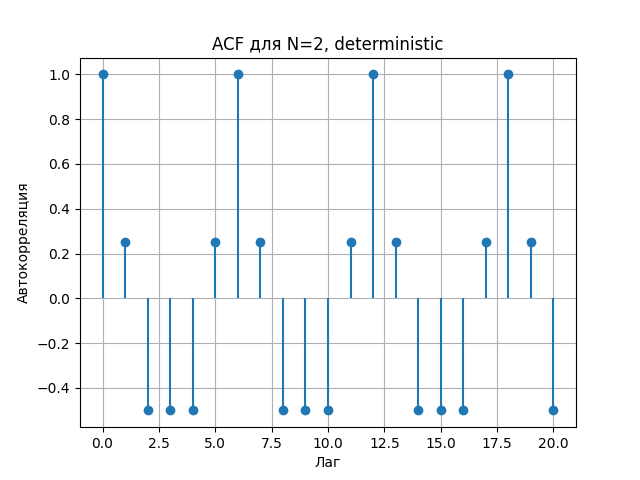
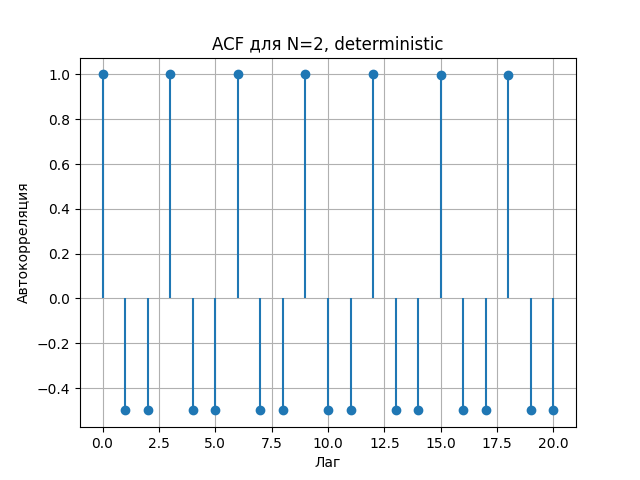
Правки

diff --git a/Aspirant1Sem/Ternary_random_number_generator/simulator.py b/Aspirant1Sem/Ternary_random_number_generator/simulator.py
@@ -11,8 +11,8 @@ class TRNGSimulator:
     Симулятор троичного генератора на основе джиттера.
     Поддерживает разные распределения задержек переключения вентилей.
     """
-    def __init__(self, N: int, gate_func: Callable[[int, int], int] = F1,
-                 delay_distribution: str = 'exponential', delay_params: dict = None):
+    def __init__(self, N: int, gate_func=F1, delay_distribution='exponential',
+             delay_params=None, clock_D: float = 8.0, record_output: int = 0):
         """
         :param N: число вентилей
         :param gate_func: логическая функция (F1 или F2)
@@ -23,6 +23,8 @@ class TRNGSimulator:
         self.gate_func = gate_func
         self.delay_distribution = delay_distribution
         self.delay_params = delay_params if delay_params else {}
+        self.clock_D = clock_D
+        self.record_output = record_output
 
         # Состояния и их индексы
         all_states = generate_all_states(N)
@@ -37,9 +39,14 @@ class TRNGSimulator:
         self._reset_timers()
 
     def _reset_timers(self):
-        """Инициализирует таймеры случайными значениями в соответствии с распределением."""
         for i in range(self.N):
-            self.timers[i] = self._generate_delay()
+            if self.delay_distribution == 'deterministic':
+                # Добавляем малый случайный сдвиг (0..epsilon) для начальной фазы
+                epsilon = self.delay_params.get('epsilon', 0.01)
+                base = self.delay_params.get('value', 1.0)
+                self.timers[i] = base + np.random.uniform(0, epsilon)
+            else:
+                self.timers[i] = self._generate_delay()
 
     def _generate_delay(self) -> float:
         """Генерирует случайную задержку согласно заданному распределению."""
@@ -99,16 +106,41 @@ class TRNGSimulator:
 
         return self.current_state_idx, new_state, dt
 
-    def run(self, num_steps: int, record_output: Optional[int] = None) -> List[int]:
-        """
-        Запускает моделирование на num_steps шагов.
-        Если record_output задан (номер вентиля), записывает последовательность его выходов.
-        Возвращает список троичных символов (-1,0,1) для указанного вентиля.
-        """
-        if record_output is None:
-            record_output = 0  # по умолчанию записываем выход первого вентиля
+    def run(self, num_steps: int) -> List[int]:
+        """Запускает моделирование на num_steps шагов, но выдаёт отсчёты через clock_D."""
         sequence = []
-        for _ in range(num_steps):
-            idx, state, _ = self.step()
-            sequence.append(state[record_output])
+        current_time = 0.0
+        last_sample_time = 0.0
+        # Инициализируем таймеры (уже есть в __init__, но нужно сохранить)
+        # Основной цикл по событиям
+        events = 0
+        while len(sequence) < num_steps:
+            # Находим вентиль с минимальным таймером
+            k = np.argmin(self.timers)
+            dt = self.timers[k]
+            # Продвигаем время
+            current_time += dt
+            self.timers -= dt
+            # Переключение вентиля
+            state = self.idx_to_state[self.current_state_idx]
+            a = state[k]
+            b = state[(k-1) % self.N]
+            new_out = self.gate_func(a, b)
+            if new_out != state[k]:
+                new_state_list = list(state)
+                new_state_list[k] = new_out
+                new_state = tuple(new_state_list)
+                # Проверка на однородные состояния
+                if new_state not in self.state_to_idx:
+                    # Это не должно происходить, но на случай сбросим?
+                    continue
+                self.current_state_idx = self.state_to_idx[new_state]
+            # Генерируем новую задержку для этого вентиля
+            self.timers[k] = self._generate_delay()
+            # Сэмплирование по тактовому сигналу
+            if current_time - last_sample_time >= self.clock_D:
+                # Берём выход указанного вентиля
+                out_val = self.idx_to_state[self.current_state_idx][self.record_output]
+                sequence.append(out_val)
+                last_sample_time = current_time
         return sequence

diff --git a/Aspirant1Sem/Ternary_random_number_generator/main.py b/Aspirant1Sem/Ternary_random_number_generator/main.py
@@ -5,7 +5,7 @@ import argparse
 import numpy as np
 import matplotlib.pyplot as plt
 from ternary_gate import F1, F2
-from transition_matrix import build_transition_matrix, stationary_distribution
+from transition_matrix import build_transition_matrix, stationary_distribution, compute_convergence_rate
 from simulator import TRNGSimulator
 from randomness_tests import chi_square_uniform, chi_square_independence, autocorrelation, runs_test
 
@@ -15,6 +15,8 @@ def run_theoretical_analysis(N, gate_func=F1):
     Q, states, _ = build_transition_matrix(N, gate_func)
     p = stationary_distribution(Q, N)
     print(f"Размерность пространства состояний: {len(states)}")
+    V = compute_convergence_rate(Q, N)
+    print(f"Параметр скорости сходимости V = {V:.4f} (чем меньше, тем быстрее сходимость)")
     print("Стационарное распределение (первые 10):")
     for i in range(min(10, len(p))):
         print(f"  {states[i]}: {p[i]:.4f}")
@@ -28,11 +30,14 @@ def run_theoretical_analysis(N, gate_func=F1):
         print(f"  {val}: {probs[val]:.4f}")
     return p, states
 
-def run_simulation(N, num_samples, delay_distr, gate_func=F1, record_output=0):
-    """Запускает дискретно-событийное моделирование."""
+def run_simulation(N, num_samples, delay_distr, gate_func, clock_D, output_gate, delay_params=None):
     print(f"\n=== Моделирование: N={N}, распределение={delay_distr}, выборок={num_samples} ===")
-    sim = TRNGSimulator(N, gate_func, delay_distribution=delay_distr)
-    seq = sim.run(num_samples, record_output=record_output)
+    if delay_params is None:
+        delay_params = {}
+    sim = TRNGSimulator(N=N, gate_func=gate_func, delay_distribution=delay_distr,
+                        delay_params=delay_params, clock_D=clock_D,
+                        record_output=output_gate)
+    seq = sim.run(num_samples)
     return seq
 
 def run_tests(seq, name="Последовательность"):
@@ -70,16 +75,31 @@ def main():
                         choices=["exponential","uniform","gamma","deterministic"],
                         help="Распределение задержек")
     parser.add_argument("--gate", type=str, default="F1", choices=["F1","F2"])
+    parser.add_argument("--clock_D", type=float, default=8.0, help="Тактовый интервал D")
+    parser.add_argument("--output_gate", type=int, default=0, help="Номер выходного вентиля (0..N-1)")
     parser.add_argument("--theoretical", action="store_true", help="Выполнить теоретический анализ")
-    parser.add_argument("--output", type=int, default=0, help="Номер выходного вентиля (0..N-1)")
     args = parser.parse_args()
 
     gate = F1 if args.gate == "F1" else F2
 
     if args.theoretical:
         run_theoretical_analysis(args.N, gate)
-    
-    seq = run_simulation(args.N, args.num_samples, args.delay_distr, gate, args.output)
+
+    # Параметры для распределений
+    delay_params = {}
+    if args.delay_distr == 'exponential':
+        delay_params = {'scale': 1.0}
+    elif args.delay_distr == 'uniform':
+        delay_params = {'low': 0.0, 'high': 2.0}
+    elif args.delay_distr == 'gamma':
+        delay_params = {'shape': 2.0, 'scale': 0.5}
+    elif args.delay_distr == 'deterministic':
+        delay_params = {'value': 1.0, 'epsilon': 0.01}
+
+    seq = run_simulation(N=args.N, num_samples=args.num_samples,
+                         delay_distr=args.delay_distr, gate_func=gate,
+                         clock_D=args.clock_D, output_gate=args.output_gate,
+                         delay_params=delay_params)
     results = run_tests(seq, f"N={args.N}, distr={args.delay_distr}")
     plot_autocorrelation(results["acf"], f"ACF для N={args.N}, {args.delay_distr}")
 

diff --git a/Aspirant1Sem/Ternary_random_number_generator/randomness_tests.py b/Aspirant1Sem/Ternary_random_number_generator/randomness_tests.py
@@ -64,37 +64,36 @@ def chi_square_independence(seq, order=2) -> tuple:
     p = 1 - chi2.cdf(stat, df)
     return stat, p
 
-def runs_test(seq) -> tuple:
+def runs_test(seq):
     """
-    Тест на длину серий (runs test) для трёх символов.
-    Серия – максимальная подпоследовательность одинаковых символов.
+    Тест на серии (runs) для троичной последовательности.
     Возвращает (Z-статистика, p-value).
     """
     n = len(seq)
-    # Количество серий
+    if n < 2:
+        return 0.0, 1.0
+    # Подсчёт числа серий (runs)
     runs = 1
     for i in range(1, n):
         if seq[i] != seq[i-1]:
             runs += 1
-    # Ожидаемое количество серий и дисперсия для многозначного алфавита сложнее.
-    # Упрощённо: используем формулу для бинарного, заменив символы на 0/1? Не точно.
-    # Лучше использовать тест на основе числа смен значений.
-    # Воспользуемся нормальным приближением для марковской цепи.
-    # Альтернатива: тест на количество переходов между разными символами.
-    # Здесь для простоты используем тест на основе энтропии переходов.
-    # Реализуем общий runs test для многозначных последовательностей по формуле:
-    # mu = 1 + 2*(n-1)*p_switch, где p_switch = 1 - sum(p_i^2)
-    # Но проще воспользоваться готовой реализацией из statsmodels? Не будем добавлять зависимости.
-    # Вместо этого вычислим статистику как (runs - expected_runs) / sqrt(var_runs)
-    # Для трёх равновероятных символов:
-    p = [1/3, 1/3, 1/3]
-    p_switch = 1 - sum(pi**2 for pi in p)  # = 2/3
-    expected_runs = 1 + 2*(n-1)*p_switch*(1 - p_switch)  # приближение
-    # Дисперсия сложна. Ограничимся выводом raw runs count.
-    # Для отчёта используем только наблюдаемое число серий, без p-value.
-    # Но лучше реализовать тест хи-квадрат на длины серий.
-    # Упростим: вернём runs и ожидаемое значение.
-    return runs, expected_runs
+    # Ожидаемое число серий для многозначного алфавита
+    # Для равновероятных символов: mu = 1 + (n-1)*(1 - sum(p_i^2))
+    # p_i = 1/3, sum(p_i^2) = 1/3
+    p_switch = 1 - 1/3  # вероятность смены символа
+    mu = 1 + (n-1) * p_switch
+    # Дисперсия для многозначного алфавита (формула Уолла-Вольфовица)
+    # var = (n-1)*p_switch*(1-p_switch) + (1 - 3*p_switch*(1-p_switch))
+    # Приближённая формула:
+    var = (n-1) * p_switch * (1 - p_switch) + (1 - 3 * p_switch * (1 - p_switch))
+    # Упрощённо: можно использовать var = (n-1)*p_switch*(1-p_switch) + 1
+    # Но для точности возьмём из литературы:
+    # Для трёх равновероятных символов p_switch = 2/3, тогда mu = 1 + (n-1)*2/3
+    # var = (n-1)*2/3*1/3 + (1 - 3*2/3*1/3) = (n-1)*2/9 + (1 - 2/3) = 2(n-1)/9 + 1/3
+    var = 2*(n-1)/9 + 1/3
+    z = (runs - mu) / np.sqrt(var)
+    p = 2 * (1 - norm.cdf(abs(z)))
+    return z, p
 
 def autocorrelation(seq, max_lag=100) -> np.ndarray:
     """

diff --git a/Aspirant1Sem/Ternary_random_number_generator/transition_matrix.py b/Aspirant1Sem/Ternary_random_number_generator/transition_matrix.py
@@ -58,3 +58,18 @@ def stationary_distribution(Q: np.ndarray, N: int) -> np.ndarray:
 def matrix_Matr(Q: np.ndarray, N: int) -> np.ndarray:
     """Возвращает матрицу Matr = Q - N*I для дифференциального уравнения."""
     return Q - N * np.eye(Q.shape[0])
+
+def compute_convergence_rate(Q: np.ndarray, N: int) -> float:
+    """
+    Вычисляет параметр V – скорость сходимости к стационарному распределению.
+    V = max{ Re(λ) : λ – собственное значение Q, λ != N }
+    """
+    eigvals = np.linalg.eigvals(Q)
+    # Отфильтровываем собственное значение, равное N (с учётом погрешности)
+    eigvals_real = np.real(eigvals)
+    # Находим максимальное значение, не равное N
+    mask = np.abs(eigvals - N) > 1e-6
+    if not np.any(mask):
+        return -np.inf
+    V = np.max(eigvals_real[mask])
+    return V
